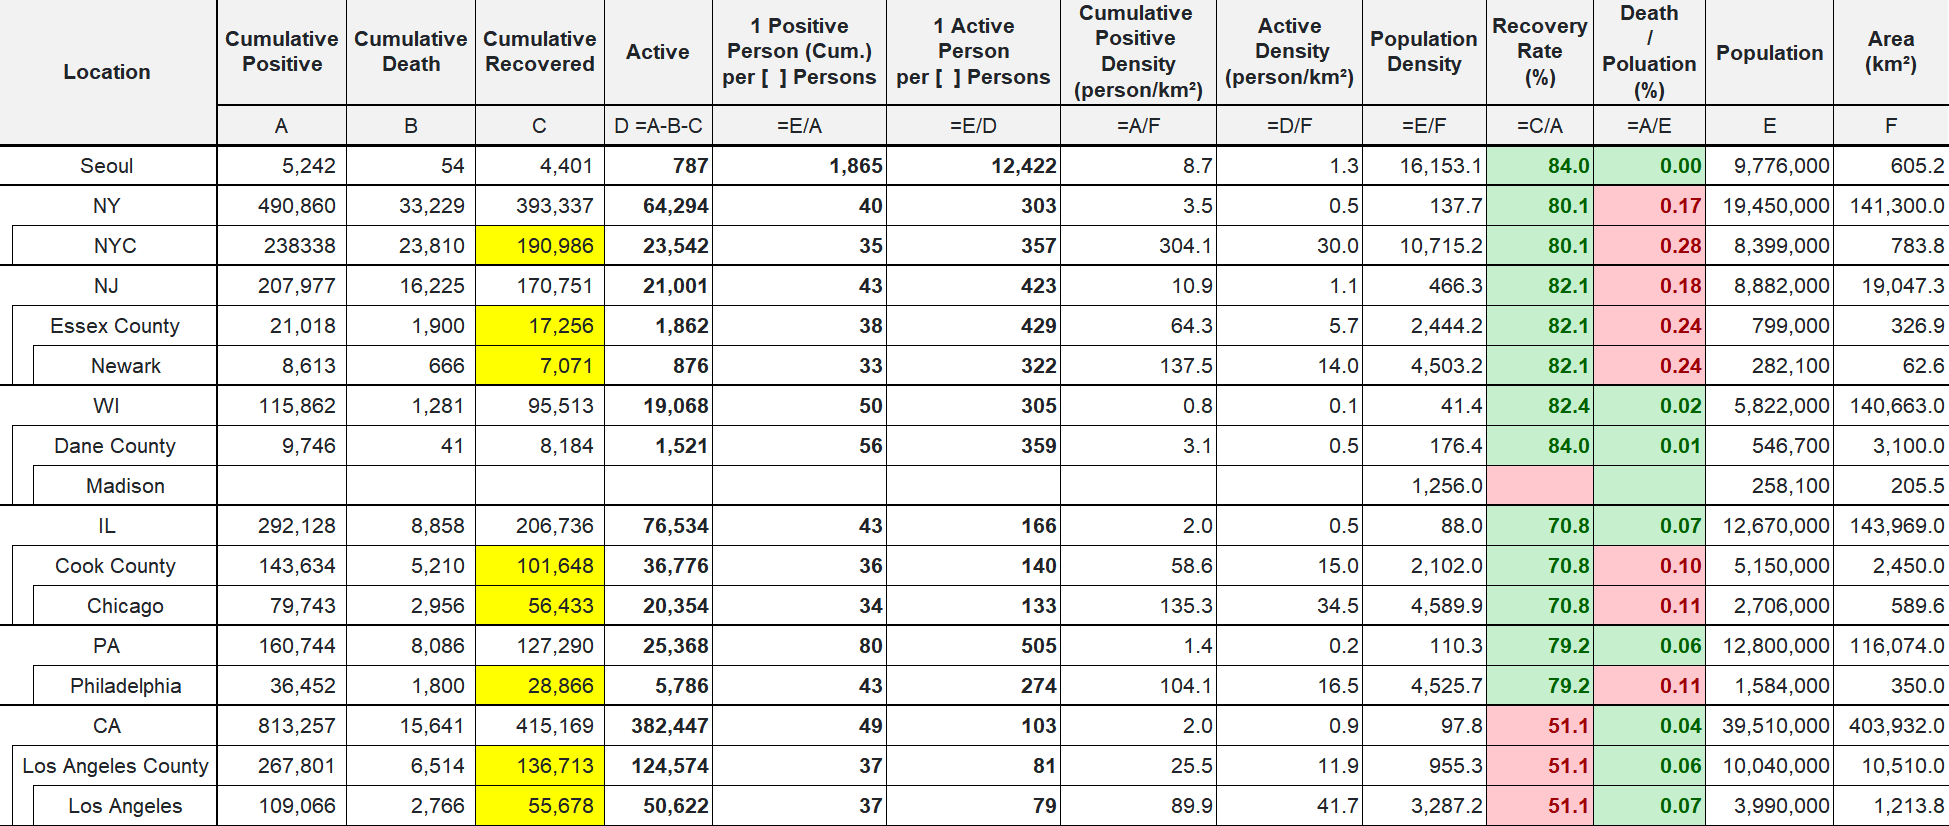
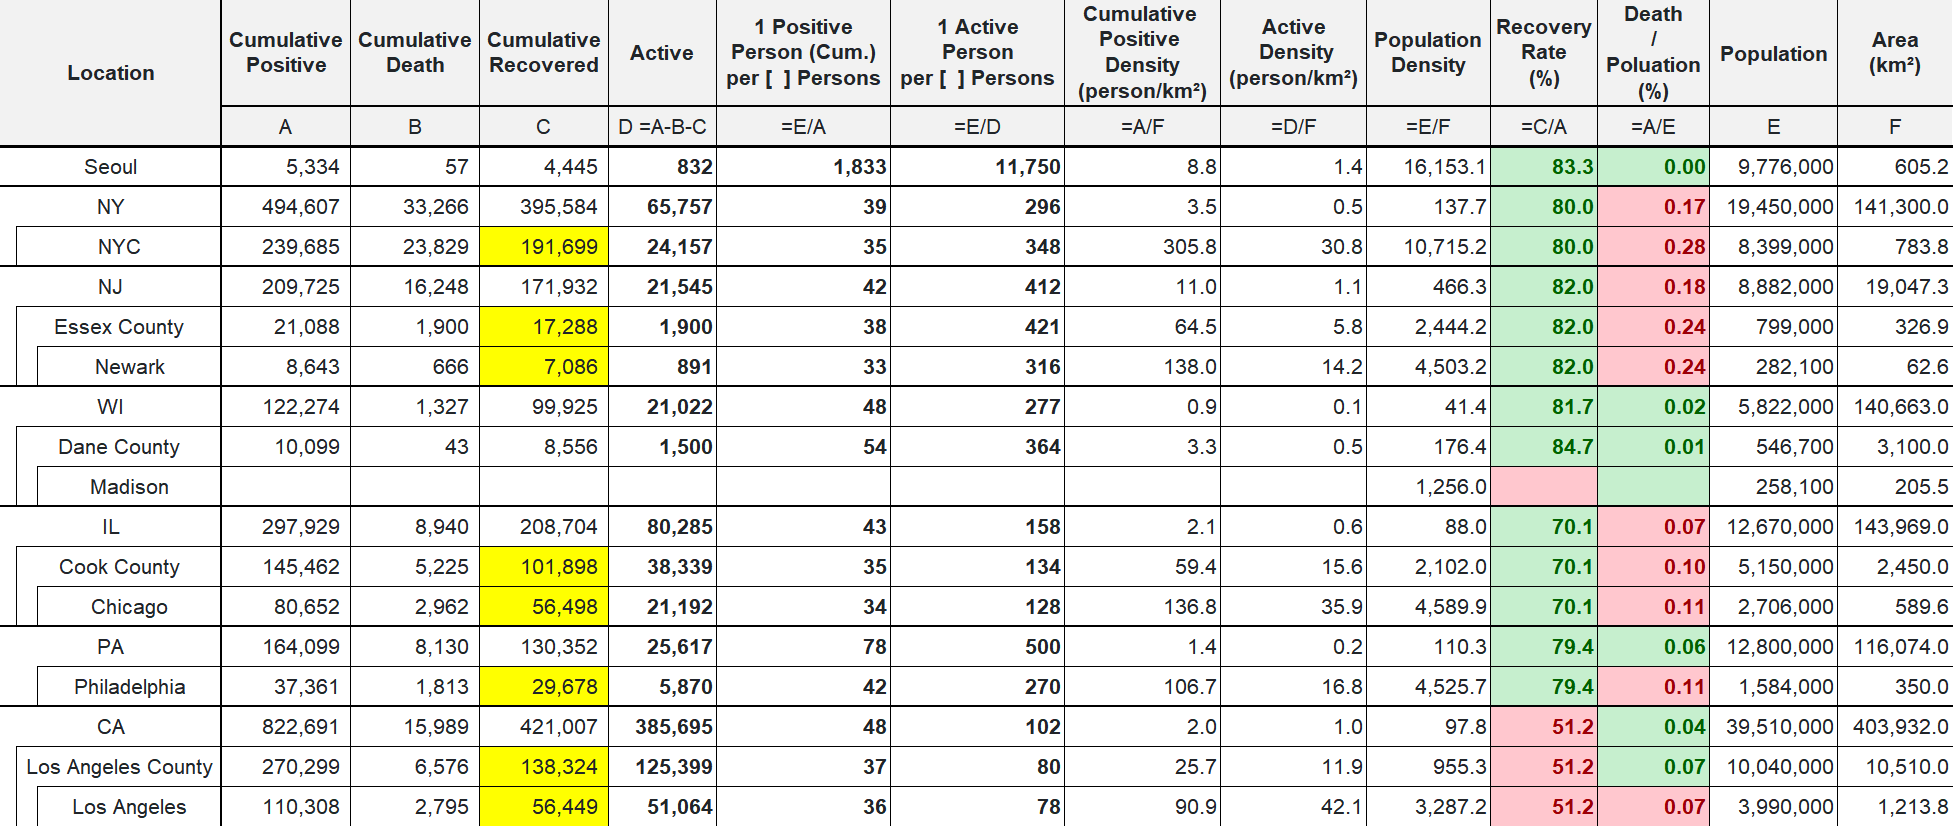
update 10/1 status

diff --git a/index.html b/index.html
@@ -19,7 +19,7 @@
 
 <body class="container-fluid">
 	<h1> CoronaV for Friends</h1>
-	<h2> Data updated at Sep 28 2020 EST 22:35</h2>
+	<h2> Data updated at Oct 01 2020 EST 21:35</h2>
 	<hr>
 	<main>
 		<div class="row">
